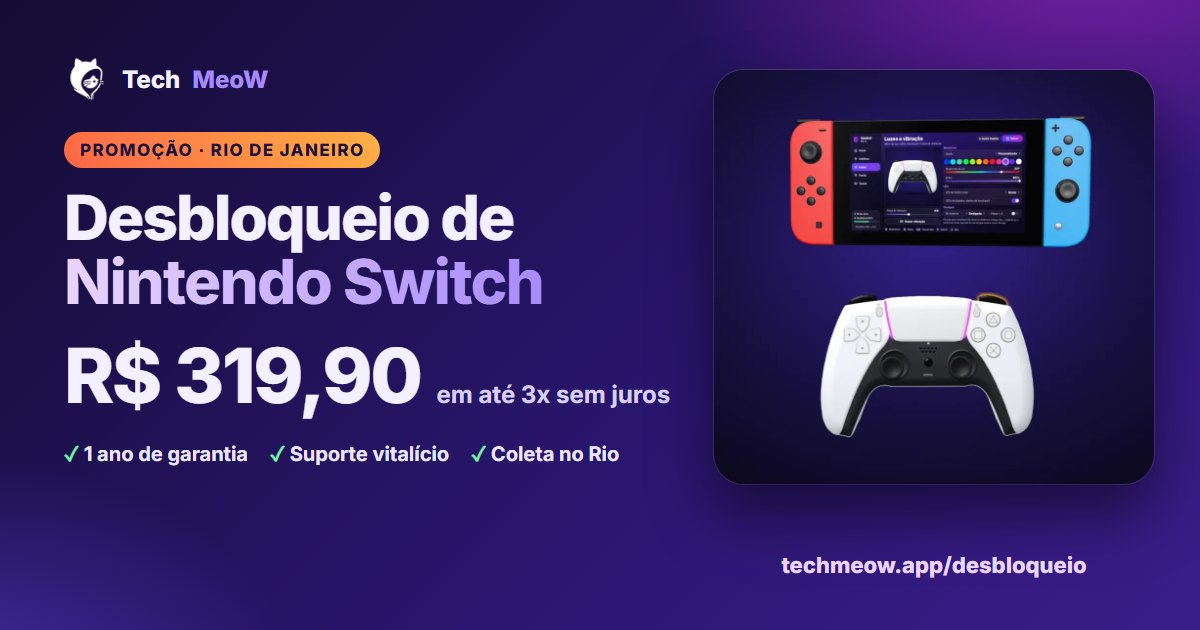
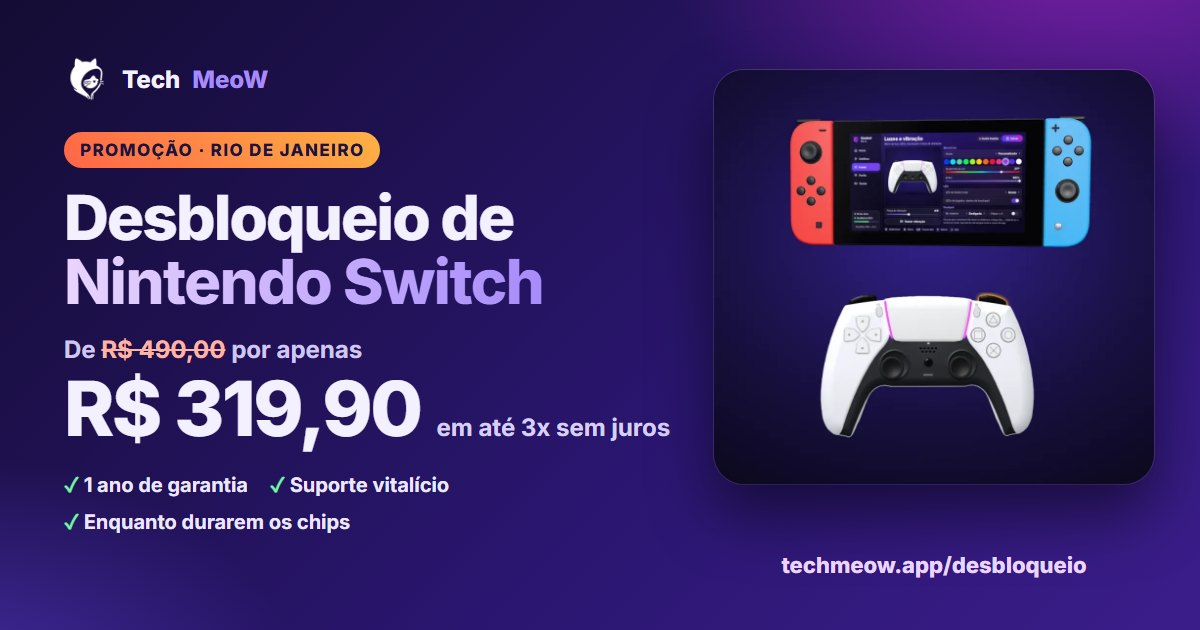
Desbloqueio de Switch: de R$ 490,00 por R$ 319,90, enquanto durarem os chips
- Preço riscado passa a R$ 490,00 ("por apenas R$ 319,90") na página do desbloqueio
  e nos cartões da página inicial (traduzido em en/es/ru)
- Escassez: preço válido enquanto durarem as unidades de chip de desbloqueio
- Miniatura do link (WhatsApp/Instagram) refeita com o "de/por"; o endereço da imagem
  leva ?v= para o WhatsApp buscar a nova; título e texto da prévia com o "de/por"
- Testes: preço antigo só aparece como "de ... por" e escassez sem contador falso

Changed region(s): [[0.0308, 0.5429, 0.555, 0.7841], [0.0308, 0.8143, 0.3083, 0.8444]]

diff --git a/desbloqueio-switch/index.html b/desbloqueio-switch/index.html
@@ -4,7 +4,7 @@
 <meta charset="utf-8">
 <meta name="viewport" content="width=device-width, initial-scale=1, viewport-fit=cover">
 <title>Desbloqueio de Nintendo Switch no RJ por R$ 319,90 | Tech MeoW</title>
-<meta name="description" content="Desbloqueio de Switch V1, V2, Lite e OLED no Rio por R$ 319,90 em até 3x sem juros. Pacote JNX próprio, 1 ano de garantia, suporte vitalício e coleta em todo o RJ.">
+<meta name="description" content="Desbloqueio de Switch V1, V2, Lite e OLED no Rio: de R$ 490,00 por R$ 319,90 em até 3x sem juros. 1 ano de garantia, suporte vitalício e coleta em todo o RJ.">
 <meta name="keywords" content="desbloqueio de Nintendo Switch, desbloqueio de Switch no RJ, desbloquear Switch, desbloqueio Switch Rio de Janeiro, desbloqueio Switch OLED, desbloqueio Switch Lite, desbloqueio Switch V1, desbloqueio Switch V2, Switch desbloqueado, método Kamikaze, kamikaze Switch OLED, pacote JNX, desbloqueio de Switch com garantia, coleta de videogame no Rio, Engenho da Rainha, Zona Norte">
 <meta name="robots" content="index,follow,max-image-preview:large,max-snippet:-1">
 <meta name="theme-color" content="#f4f1ff" media="(prefers-color-scheme: light)">
@@ -14,16 +14,16 @@
 <meta property="og:site_name" content="Tech MeoW">
 <meta property="og:locale" content="pt_BR">
 <meta property="og:url" content="https://techmeow.app/desbloqueio-switch/">
-<meta property="og:title" content="Desbloqueio de Nintendo Switch no Rio por R$ 319,90">
-<meta property="og:description" content="Em até 3x sem juros. Pacote JNX feito pela Tech MeoW, 1 ano de garantia, suporte vitalício e coleta em todo o Rio.">
-<meta property="og:image" content="https://techmeow.app/img/og-desbloqueio.jpg">
+<meta property="og:title" content="Desbloqueio de Nintendo Switch: de R$ 490,00 por R$ 319,90">
+<meta property="og:description" content="Em até 3x sem juros, enquanto durarem os chips. Pacote JNX da Tech MeoW, 1 ano de garantia, suporte vitalício e coleta em todo o Rio.">
+<meta property="og:image" content="https://techmeow.app/img/og-desbloqueio.jpg?v=9b6abd9485">
 <meta property="og:image:width" content="1200">
 <meta property="og:image:height" content="630">
-<meta property="og:image:alt" content="Desbloqueio de Nintendo Switch no Rio por R$ 319,90 em até 3x sem juros, com 1 ano de garantia e coleta em todo o Rio">
+<meta property="og:image:alt" content="Desbloqueio de Nintendo Switch no Rio: de R$ 490,00 por apenas R$ 319,90 em até 3x sem juros, com 1 ano de garantia e suporte vitalício">
 <meta name="twitter:card" content="summary_large_image">
-<meta name="twitter:title" content="Desbloqueio de Nintendo Switch no Rio por R$ 319,90">
-<meta name="twitter:description" content="Em até 3x sem juros. Pacote JNX feito pela Tech MeoW, 1 ano de garantia, suporte vitalício e coleta em todo o Rio.">
-<meta name="twitter:image" content="https://techmeow.app/img/og-desbloqueio.jpg">
+<meta name="twitter:title" content="Desbloqueio de Nintendo Switch: de R$ 490,00 por R$ 319,90">
+<meta name="twitter:description" content="Em até 3x sem juros, enquanto durarem os chips. Pacote JNX da Tech MeoW, 1 ano de garantia, suporte vitalício e coleta em todo o Rio.">
+<meta name="twitter:image" content="https://techmeow.app/img/og-desbloqueio.jpg?v=9b6abd9485">
 <link rel="icon" href="/img/logo-192.png" type="image/png">
 <link rel="apple-touch-icon" href="/img/apple-touch-icon.png">
 <link rel="preload" href="/fonts/inter-regular.woff2" as="font" type="font/woff2" crossorigin>
@@ -191,7 +191,7 @@
         "priceCurrency": "BRL",
         "availability": "https://schema.org/InStock",
         "url": "https://techmeow.app/desbloqueio-switch/",
-        "description": "À vista ou em até 3x sem juros. Qualquer modelo do Switch 1; o Switch 2 não tem desbloqueio.",
+        "description": "De R$ 490,00 por R$ 319,90, à vista ou em até 3x sem juros, enquanto durarem as unidades de chip de desbloqueio. Qualquer modelo do Switch 1; o Switch 2 não tem desbloqueio.",
         "seller": {
           "@id": "https://techmeow.app/#loja"
         }
@@ -261,7 +261,7 @@
           "name": "Quanto custa o desbloqueio do Switch?",
           "acceptedAnswer": {
             "@type": "Answer",
-            "text": "R$ 319,90 na promoção, à vista ou em até 3x de R$ 106,63 sem juros. É o mesmo preço para qualquer modelo do Switch 1."
+            "text": "De R$ 490,00 por apenas R$ 319,90 na promoção, à vista ou em até 3x de R$ 106,63 sem juros. É o mesmo preço para qualquer modelo do Switch 1, e vale enquanto durarem as nossas unidades de chip de desbloqueio."
           }
         },
         {
@@ -424,7 +424,7 @@
 <main id="conteudo">
   <!-- Página de venda do desbloqueio de Switch (/desbloqueio-switch/). Preço e vídeo: DESBLOQUEIO em montar-paginas.mjs.
        Regra do dono: nada sobre jogos no texto nem nas imagens; só Switch 1. -->
-  <p class="faixa-promo" role="note"><span class="ponto" aria-hidden="true"></span><b>Promoção por tempo limitado:</b> de <s>R$ 339,90</s> por <b>R$ 319,90</b>, em até 3x sem juros <span class="sep" aria-hidden="true">·</span> <span class="nw">Coleta em todo o Rio</span></p>
+  <p class="faixa-promo" role="note"><span class="ponto" aria-hidden="true"></span><b>Promoção:</b> de <s>R$ 490,00</s> por apenas <b>R$ 319,90</b>, em até 3x sem juros <span class="sep" aria-hidden="true">·</span> <span class="nw">Enquanto durarem os chips</span></p>
 
   <!-- Primeira dobra: o que é, para quem, e o preço -->
   <section class="wrap hero" id="topo">
@@ -447,10 +447,10 @@
         <span class="ribbon" data-t="Promoção" aria-hidden="true"></span>
         <div class="pc-media"><img src="/img/desbloqueio-900.webp" srcset="/img/desbloqueio-640.webp 640w, /img/desbloqueio-900.webp 900w" sizes="(max-width: 1040px) 90vw, 390px" width="900" height="846" alt="Nintendo Switch desbloqueado com o app Control PS-5 aberto e um controle de PS5 conectado" fetchpriority="high"></div>
         <h2>Desbloqueio de Nintendo Switch</h2>
-        <p class="pc-de">De <s>R$ 339,90</s> por</p>
+        <p class="pc-de">De <s>R$ 490,00</s> por apenas</p>
         <p class="pc-preco"><b>R$ 319,90</b><span>ou 3x de R$ 106,63 sem juros</span></p>
         <a class="b p magnetic" href="https://wa.me/5521966547296?text=Ol%C3%A1%2C%20Tech%20MeoW!%20Vim%20pelo%20site%20e%20quero%20garantir%20o%20desbloqueio%20de%20Nintendo%20Switch%20na%20promo%C3%A7%C3%A3o%20de%20R%24%20319%2C90.%20Meu%20modelo%20%C3%A9%3A" target="_blank" rel="noopener"><svg class="ib" aria-hidden="true"><use href="#i-wa"/></svg>Garantir este preço</a>
-        <p class="pc-aviso"><svg class="i" aria-hidden="true"><use href="#i-clock"/></svg>Preço de promoção, por tempo limitado</p>
+        <p class="pc-aviso"><svg class="i" aria-hidden="true"><use href="#i-clock"/></svg>Preço válido enquanto durarem os chips</p>
       </div>
     </aside>
   </section>
@@ -472,6 +472,7 @@
         <div class="unlock-txt">
           <span class="kick">O que você leva</span>
           <h2>Tudo o que vem no desbloqueio</h2>
+          <p class="pc-de">De <s>R$ 490,00</s> por apenas</p>
           <p class="preco"><b>R$ 319,90</b><span>à vista ou em até 3x de R$ 106,63 sem juros</span></p>
           <ul class="ticks">
             <li><svg class="i" aria-hidden="true"><use href="#i-check"/></svg>Desbloqueio com o <a href="/JNX/">JNX</a>, o pacote que a Tech MeoW criou, todo em português</li>
@@ -603,7 +604,7 @@
       </div>
       <div class="faq">
         <details><summary>Quais modelos de Switch vocês desbloqueiam?</summary><p>Qualquer modelo do Nintendo Switch 1: V1, V2, Lite e OLED. O Switch 2 ainda não tem desbloqueio.</p></details>
-        <details><summary>Quanto custa o desbloqueio do Switch?</summary><p>R$ 319,90 na promoção, à vista ou em até 3x de R$ 106,63 sem juros. É o mesmo preço para qualquer modelo do Switch 1.</p></details>
+        <details><summary>Quanto custa o desbloqueio do Switch?</summary><p>De R$ 490,00 por apenas R$ 319,90 na promoção, à vista ou em até 3x de R$ 106,63 sem juros. É o mesmo preço para qualquer modelo do Switch 1, e vale enquanto durarem as nossas unidades de chip de desbloqueio.</p></details>
         <details><summary>O que é o JNX?</summary><p>É o pacote de desbloqueio criado pela Tech MeoW: tela de início, menus e bootloader em português, com o JNX Updater para traduções, temas e atualizações. Todo Switch desbloqueado aqui sai com ele. Veja mais na <a href="/JNX/">página do JNX</a>.</p></details>
         <details><summary>O que é o método Kamikaze?</summary><p>É a técnica que a gente usa para desbloquear o Switch OLED, a mesma que ensina no curso A Arte Kamikase. O <a href="#video">vídeo do nosso canal</a> mostra o trabalho passo a passo.</p></details>
         <details><summary>O desbloqueio tem garantia?</summary><p>Tem: 1 ano de garantia sobre o desbloqueio. E o suporte pelo WhatsApp é vitalício.</p></details>
@@ -620,9 +621,9 @@
   <section class="sec final">
     <div class="wrap">
       <div class="card fechar">
-        <span class="kick"><i></i>Promoção por tempo limitado</span>
-        <h2>Garanta o desbloqueio por R$ 319,90</h2>
-        <p class="lead">O preço de promoção pode voltar a R$ 339,90 a qualquer momento, e a coleta é marcada por ordem de chamada no WhatsApp: quem chama primeiro, garante o horário.</p>
+        <span class="kick"><i></i>Enquanto durarem os chips</span>
+        <h2>Garanta o desbloqueio por apenas R$ 319,90</h2>
+        <p class="lead">De R$ 490,00 por R$ 319,90: esse preço vale até acabarem as nossas unidades de chip de desbloqueio. A coleta é marcada por ordem de chamada no WhatsApp: quem chama primeiro, garante o chip e o horário.</p>
         <div class="cta">
           <a class="b wa big magnetic" href="https://wa.me/5521966547296?text=Ol%C3%A1%2C%20Tech%20MeoW!%20Vim%20pelo%20site%20e%20quero%20garantir%20o%20desbloqueio%20de%20Nintendo%20Switch%20por%20R%24%20319%2C90.%20Meu%20modelo%20%C3%A9%3A" target="_blank" rel="noopener"><svg class="ib" aria-hidden="true"><use href="#i-wa"/></svg>Garantir no WhatsApp</a>
           <a class="b big" href="https://www.instagram.com/tech_meow.oficial/" target="_blank" rel="noopener"><svg class="ib" aria-hidden="true"><use href="#i-ig"/></svg>Seguir no Instagram</a>

diff --git a/site-src/paginas/desbloqueio.html b/site-src/paginas/desbloqueio.html
@@ -1,6 +1,6 @@
   <!-- Página de venda do desbloqueio de Switch (/desbloqueio-switch/). Preço e vídeo: DESBLOQUEIO em montar-paginas.mjs.
        Regra do dono: nada sobre jogos no texto nem nas imagens; só Switch 1. -->
-  <p class="faixa-promo" role="note"><span class="ponto" aria-hidden="true"></span><b>Promoção por tempo limitado:</b> de <s>{{d:precoAntigo}}</s> por <b>{{d:precoTela}}</b>, em até {{d:parcelas}}x sem juros <span class="sep" aria-hidden="true">·</span> <span class="nw">Coleta em todo o Rio</span></p>
+  <p class="faixa-promo" role="note"><span class="ponto" aria-hidden="true"></span><b>Promoção:</b> de <s>{{d:precoAntigo}}</s> por apenas <b>{{d:precoTela}}</b>, em até {{d:parcelas}}x sem juros <span class="sep" aria-hidden="true">·</span> <span class="nw">Enquanto durarem os chips</span></p>
 
   <!-- Primeira dobra: o que é, para quem, e o preço -->
   <section class="wrap hero" id="topo">
@@ -23,10 +23,10 @@
         <span class="ribbon" data-t="Promoção" aria-hidden="true"></span>
         <div class="pc-media"><img src="/img/desbloqueio-900.webp" srcset="/img/desbloqueio-640.webp 640w, /img/desbloqueio-900.webp 900w" sizes="(max-width: 1040px) 90vw, 390px" width="900" height="846" alt="Nintendo Switch desbloqueado com o app Control PS-5 aberto e um controle de PS5 conectado" fetchpriority="high"></div>
         <h2>Desbloqueio de Nintendo Switch</h2>
-        <p class="pc-de">De <s>{{d:precoAntigo}}</s> por</p>
+        <p class="pc-de">De <s>{{d:precoAntigo}}</s> por apenas</p>
         <p class="pc-preco"><b>{{d:precoTela}}</b><span>ou {{d:parcelas}}x de {{d:parcelaTela}} sem juros</span></p>
         <a class="b p magnetic" href="{{zap:Olá, Tech MeoW! Vim pelo site e quero garantir o desbloqueio de Nintendo Switch na promoção de {{d:precoTela}}. Meu modelo é:}}" target="_blank" rel="noopener"><svg class="ib" aria-hidden="true"><use href="#i-wa"/></svg>Garantir este preço</a>
-        <p class="pc-aviso"><svg class="i" aria-hidden="true"><use href="#i-clock"/></svg>Preço de promoção, por tempo limitado</p>
+        <p class="pc-aviso"><svg class="i" aria-hidden="true"><use href="#i-clock"/></svg>Preço válido enquanto durarem os chips</p>
       </div>
     </aside>
   </section>
@@ -48,6 +48,7 @@
         <div class="unlock-txt">
           <span class="kick">O que você leva</span>
           <h2>Tudo o que vem no desbloqueio</h2>
+          <p class="pc-de">De <s>{{d:precoAntigo}}</s> por apenas</p>
           <p class="preco"><b>{{d:precoTela}}</b><span>à vista ou em até {{d:parcelas}}x de {{d:parcelaTela}} sem juros</span></p>
           <ul class="ticks">
             <li><svg class="i" aria-hidden="true"><use href="#i-check"/></svg>Desbloqueio com o <a href="/JNX/">JNX</a>, o pacote que a Tech MeoW criou, todo em português</li>
@@ -179,7 +180,7 @@
       </div>
       <div class="faq">
         <details><summary>Quais modelos de Switch vocês desbloqueiam?</summary><p>Qualquer modelo do Nintendo Switch 1: V1, V2, Lite e OLED. O Switch 2 ainda não tem desbloqueio.</p></details>
-        <details><summary>Quanto custa o desbloqueio do Switch?</summary><p>{{d:precoTela}} na promoção, à vista ou em até {{d:parcelas}}x de {{d:parcelaTela}} sem juros. É o mesmo preço para qualquer modelo do Switch 1.</p></details>
+        <details><summary>Quanto custa o desbloqueio do Switch?</summary><p>De {{d:precoAntigo}} por apenas {{d:precoTela}} na promoção, à vista ou em até {{d:parcelas}}x de {{d:parcelaTela}} sem juros. É o mesmo preço para qualquer modelo do Switch 1, e vale enquanto durarem as nossas unidades de chip de desbloqueio.</p></details>
         <details><summary>O que é o JNX?</summary><p>É o pacote de desbloqueio criado pela Tech MeoW: tela de início, menus e bootloader em português, com o JNX Updater para traduções, temas e atualizações. Todo Switch desbloqueado aqui sai com ele. Veja mais na <a href="/JNX/">página do JNX</a>.</p></details>
         <details><summary>O que é o método Kamikaze?</summary><p>É a técnica que a gente usa para desbloquear o Switch OLED, a mesma que ensina no curso A Arte Kamikase. O <a href="#video">vídeo do nosso canal</a> mostra o trabalho passo a passo.</p></details>
         <details><summary>O desbloqueio tem garantia?</summary><p>Tem: 1 ano de garantia sobre o desbloqueio. E o suporte pelo WhatsApp é vitalício.</p></details>
@@ -196,9 +197,9 @@
   <section class="sec final">
     <div class="wrap">
       <div class="card fechar">
-        <span class="kick"><i></i>Promoção por tempo limitado</span>
-        <h2>Garanta o desbloqueio por {{d:precoTela}}</h2>
-        <p class="lead">O preço de promoção pode voltar a {{d:precoAntigo}} a qualquer momento, e a coleta é marcada por ordem de chamada no WhatsApp: quem chama primeiro, garante o horário.</p>
+        <span class="kick"><i></i>Enquanto durarem os chips</span>
+        <h2>Garanta o desbloqueio por apenas {{d:precoTela}}</h2>
+        <p class="lead">De {{d:precoAntigo}} por {{d:precoTela}}: esse preço vale até acabarem as nossas unidades de chip de desbloqueio. A coleta é marcada por ordem de chamada no WhatsApp: quem chama primeiro, garante o chip e o horário.</p>
         <div class="cta">
           <a class="b wa big magnetic" href="{{zap:Olá, Tech MeoW! Vim pelo site e quero garantir o desbloqueio de Nintendo Switch por {{d:precoTela}}. Meu modelo é:}}" target="_blank" rel="noopener"><svg class="ib" aria-hidden="true"><use href="#i-wa"/></svg>Garantir no WhatsApp</a>
           <a class="b big" href="https://www.instagram.com/tech_meow.oficial/" target="_blank" rel="noopener"><svg class="ib" aria-hidden="true"><use href="#i-ig"/></svg>Seguir no Instagram</a>

diff --git a/ru/index.html b/ru/index.html
@@ -324,6 +324,7 @@ if(matchMedia("(max-width:600px)").matches){s.classList.add("m");document.body.a
         <span class="ribbon" data-t="Акция" aria-hidden="true"></span>
         <div class="pc-media"><img src="/img/desbloqueio-900.webp" srcset="/img/desbloqueio-640.webp 640w, /img/desbloqueio-900.webp 900w" sizes="(max-width: 1040px) 90vw, 390px" width="900" height="846" alt="Nintendo Switch с открытым приложением Control PS-5 и подключённым геймпадом PS5" fetchpriority="high"></div>
         <h2>Прошивка Nintendo Switch</h2>
+        <p class="pc-de">Было <s>490,00 R$</s>, теперь всего</p>
         <p class="pc-preco"><b>319,90 R$</b><span>любая модель Switch 1</span></p>
         <a class="b p magnetic" href="https://wa.me/5521966547296?text=%D0%97%D0%B4%D1%80%D0%B0%D0%B2%D1%81%D1%82%D0%B2%D1%83%D0%B9%D1%82%D0%B5%2C%20Tech%20MeoW!%20%D0%AF%20%D0%BF%D1%80%D0%B8%D1%88%D1%91%D0%BB%20%D1%81%20%D1%81%D0%B0%D0%B9%D1%82%D0%B0%20%D0%B8%20%D1%85%D0%BE%D1%87%D1%83%20%D0%BF%D1%80%D0%BE%D1%88%D0%B8%D0%B2%D0%BA%D1%83%20Nintendo%20Switch%20%D0%BF%D0%BE%20%D0%B0%D0%BA%D1%86%D0%B8%D0%B8%20%D0%B7%D0%B0%20319%2C90%20R%24." target="_blank" rel="noopener"><svg class="ib" aria-hidden="true"><use href="#i-wa"/></svg>Хочу прошить</a>
         <a class="mais" href="#desbloqueio">Что входит ↓</a>
@@ -410,6 +411,7 @@ if(matchMedia("(max-width:600px)").matches){s.classList.add("m");document.body.a
         <div class="unlock-txt">
           <span class="kick">Акция · Nintendo Switch 1</span>
           <h2>Прошивка Nintendo Switch</h2>
+          <p class="pc-de">Было <s>490,00 R$</s>, теперь всего</p>
           <p class="preco"><b>319,90 R$</b><span>любая модель Switch 1</span></p>
           <ul class="ticks">
             <li><svg class="i" aria-hidden="true"><use href="#i-check"/></svg>V1, V2, Lite и OLED</li>

diff --git a/index.html b/index.html
@@ -324,6 +324,7 @@ if(matchMedia("(max-width:600px)").matches){s.classList.add("m");document.body.a
         <span class="ribbon" data-t="Promoção" aria-hidden="true"></span>
         <div class="pc-media"><img src="/img/desbloqueio-900.webp" srcset="/img/desbloqueio-640.webp 640w, /img/desbloqueio-900.webp 900w" sizes="(max-width: 1040px) 90vw, 390px" width="900" height="846" alt="Nintendo Switch com o app Control PS-5 aberto e um controle de PS5 conectado" fetchpriority="high"></div>
         <h2>Desbloqueio de Nintendo Switch</h2>
+        <p class="pc-de">De <s>R$ 490,00</s> por apenas</p>
         <p class="pc-preco"><b>R$ 319,90</b><span>qualquer modelo do Switch 1</span></p>
         <a class="b p magnetic" href="https://wa.me/5521966547296?text=Ol%C3%A1%2C%20Tech%20MeoW!%20Vim%20pelo%20site%20e%20quero%20o%20desbloqueio%20de%20Nintendo%20Switch%20na%20promo%C3%A7%C3%A3o%20de%20R%24%20319%2C90." target="_blank" rel="noopener"><svg class="ib" aria-hidden="true"><use href="#i-wa"/></svg>Quero desbloquear</a>
         <a class="mais" href="#desbloqueio">Ver o que está incluído ↓</a>
@@ -410,6 +411,7 @@ if(matchMedia("(max-width:600px)").matches){s.classList.add("m");document.body.a
         <div class="unlock-txt">
           <span class="kick">Promoção · Nintendo Switch 1</span>
           <h2>Desbloqueio de Nintendo Switch</h2>
+          <p class="pc-de">De <s>R$ 490,00</s> por apenas</p>
           <p class="preco"><b>R$ 319,90</b><span>qualquer modelo do Switch 1</span></p>
           <ul class="ticks">
             <li><svg class="i" aria-hidden="true"><use href="#i-check"/></svg>V1, V2, Lite e OLED</li>

diff --git a/es/index.html b/es/index.html
@@ -324,6 +324,7 @@ if(matchMedia("(max-width:600px)").matches){s.classList.add("m");document.body.a
         <span class="ribbon" data-t="Promoción" aria-hidden="true"></span>
         <div class="pc-media"><img src="/img/desbloqueio-900.webp" srcset="/img/desbloqueio-640.webp 640w, /img/desbloqueio-900.webp 900w" sizes="(max-width: 1040px) 90vw, 390px" width="900" height="846" alt="Nintendo Switch con la app Control PS-5 abierta y un control de PS5 conectado" fetchpriority="high"></div>
         <h2>Desbloqueo de Nintendo Switch</h2>
+        <p class="pc-de">De <s>R$ 490,00</s> por solo</p>
         <p class="pc-preco"><b>R$ 319,90</b><span>cualquier modelo del Switch 1</span></p>
         <a class="b p magnetic" href="https://wa.me/5521966547296?text=%C2%A1Hola%2C%20Tech%20MeoW!%20Vengo%20del%20sitio%20y%20quiero%20el%20desbloqueo%20de%20Nintendo%20Switch%20en%20la%20promoci%C3%B3n%20de%20R%24%20319%2C90." target="_blank" rel="noopener"><svg class="ib" aria-hidden="true"><use href="#i-wa"/></svg>Quiero desbloquear</a>
         <a class="mais" href="#desbloqueio">Ver qué incluye ↓</a>
@@ -410,6 +411,7 @@ if(matchMedia("(max-width:600px)").matches){s.classList.add("m");document.body.a
         <div class="unlock-txt">
           <span class="kick">Promoción · Nintendo Switch 1</span>
           <h2>Desbloqueo de Nintendo Switch</h2>
+          <p class="pc-de">De <s>R$ 490,00</s> por solo</p>
           <p class="preco"><b>R$ 319,90</b><span>cualquier modelo del Switch 1</span></p>
           <ul class="ticks">
             <li><svg class="i" aria-hidden="true"><use href="#i-check"/></svg>V1, V2, Lite y OLED</li>

diff --git a/en/index.html b/en/index.html
@@ -324,6 +324,7 @@ if(matchMedia("(max-width:600px)").matches){s.classList.add("m");document.body.a
         <span class="ribbon" data-t="Promotion" aria-hidden="true"></span>
         <div class="pc-media"><img src="/img/desbloqueio-900.webp" srcset="/img/desbloqueio-640.webp 640w, /img/desbloqueio-900.webp 900w" sizes="(max-width: 1040px) 90vw, 390px" width="900" height="846" alt="Nintendo Switch with the Control PS-5 app open and a PS5 controller connected" fetchpriority="high"></div>
         <h2>Nintendo Switch unlocking</h2>
+        <p class="pc-de">Was <s>R$490.00</s>, now just</p>
         <p class="pc-preco"><b>R$319.90</b><span>any Switch 1 model</span></p>
         <a class="b p magnetic" href="https://wa.me/5521966547296?text=Hello%2C%20Tech%20MeoW!%20I%20came%20from%20the%20website%20and%20I'd%20like%20the%20Nintendo%20Switch%20unlocking%20at%20the%20R%24319.90%20promotion." target="_blank" rel="noopener"><svg class="ib" aria-hidden="true"><use href="#i-wa"/></svg>I want to unlock mine</a>
         <a class="mais" href="#desbloqueio">See what's included ↓</a>
@@ -410,6 +411,7 @@ if(matchMedia("(max-width:600px)").matches){s.classList.add("m");document.body.a
         <div class="unlock-txt">
           <span class="kick">Promotion · Nintendo Switch 1</span>
           <h2>Nintendo Switch unlocking</h2>
+          <p class="pc-de">Was <s>R$490.00</s>, now just</p>
           <p class="preco"><b>R$319.90</b><span>any Switch 1 model</span></p>
           <ul class="ticks">
             <li><svg class="i" aria-hidden="true"><use href="#i-check"/></svg>V1, V2, Lite and OLED</li>

diff --git a/tests/desbloqueio.test.js b/tests/desbloqueio.test.js
@@ -23,11 +23,19 @@ test("a parcela sem juros vezes o número de parcelas dá o preço (até 2 centa
   assert.ok(reais(DESBLOQUEIO.parcelaTela) * DESBLOQUEIO.parcelas <= Number(DESBLOQUEIO.preco), "a parcela não pode somar mais que o preço");
 });
 
-test("o preço antigo só aparece riscado ou como aviso de que pode voltar", () => {
+test("o preço antigo só aparece como \"de ... por\" (riscado na tela) e é maior que o preço", () => {
+  assert.ok(reais(DESBLOQUEIO.precoAntigo) > Number(DESBLOQUEIO.preco));
   const usos = main.split(DESBLOQUEIO.precoAntigo).length - 1;
-  const riscados = main.split(`<s>${DESBLOQUEIO.precoAntigo}</s>`).length - 1;
-  const aviso = main.includes(`pode voltar a ${DESBLOQUEIO.precoAntigo}`) ? 1 : 0;
-  assert.equal(usos, riscados + aviso);
+  const deSp = (main.match(new RegExp(`\\bde (<s>)?${DESBLOQUEIO.precoAntigo.replace(/[$.]/g, "\\$&")}`, "gi")) || []).length;
+  assert.ok(usos >= 3, "faixa, cartão e chamada final");
+  assert.equal(usos, deSp, "todo uso do preço antigo vem depois de \"de\"");
+  assert.ok(main.includes(`<s>${DESBLOQUEIO.precoAntigo}</s> por apenas`), "riscado no cartão do preço");
+});
+
+test("a escassez é a real: preço vale enquanto durarem os chips (sem contador falso)", () => {
+  assert.match(main, /enquanto durarem/i);
+  assert.match(main, /chip/i);
+  assert.doesNotMatch(main, /restam \d|últimas \d|countdown|cronômetro/i);
 });
 
 test("toda pergunta da tela está no FAQPage, com a mesma resposta", () => {

diff --git a/site-src/paginas/home.html b/site-src/paginas/home.html
@@ -19,6 +19,7 @@
         <span class="ribbon" data-t="Promoção" aria-hidden="true"></span>
         <div class="pc-media"><img src="/img/desbloqueio-900.webp" srcset="/img/desbloqueio-640.webp 640w, /img/desbloqueio-900.webp 900w" sizes="(max-width: 1040px) 90vw, 390px" width="900" height="846" alt="Nintendo Switch com o app Control PS-5 aberto e um controle de PS5 conectado" fetchpriority="high"></div>
         <h2>Desbloqueio de Nintendo Switch</h2>
+        <p class="pc-de">De <s>R$ 490,00</s> por apenas</p>
         <p class="pc-preco"><b>R$ 319,90</b><span>qualquer modelo do Switch 1</span></p>
         <a class="b p magnetic" href="{{zap:Olá, Tech MeoW! Vim pelo site e quero o desbloqueio de Nintendo Switch na promoção de R$ 319,90.}}" target="_blank" rel="noopener"><svg class="ib" aria-hidden="true"><use href="#i-wa"/></svg>Quero desbloquear</a>
         <a class="mais" href="#desbloqueio">Ver o que está incluído ↓</a>
@@ -105,6 +106,7 @@
         <div class="unlock-txt">
           <span class="kick">Promoção · Nintendo Switch 1</span>
           <h2>Desbloqueio de Nintendo Switch</h2>
+          <p class="pc-de">De <s>R$ 490,00</s> por apenas</p>
           <p class="preco"><b>R$ 319,90</b><span>qualquer modelo do Switch 1</span></p>
           <ul class="ticks">
             <li><svg class="i" aria-hidden="true"><use href="#i-check"/></svg>V1, V2, Lite e OLED</li>
